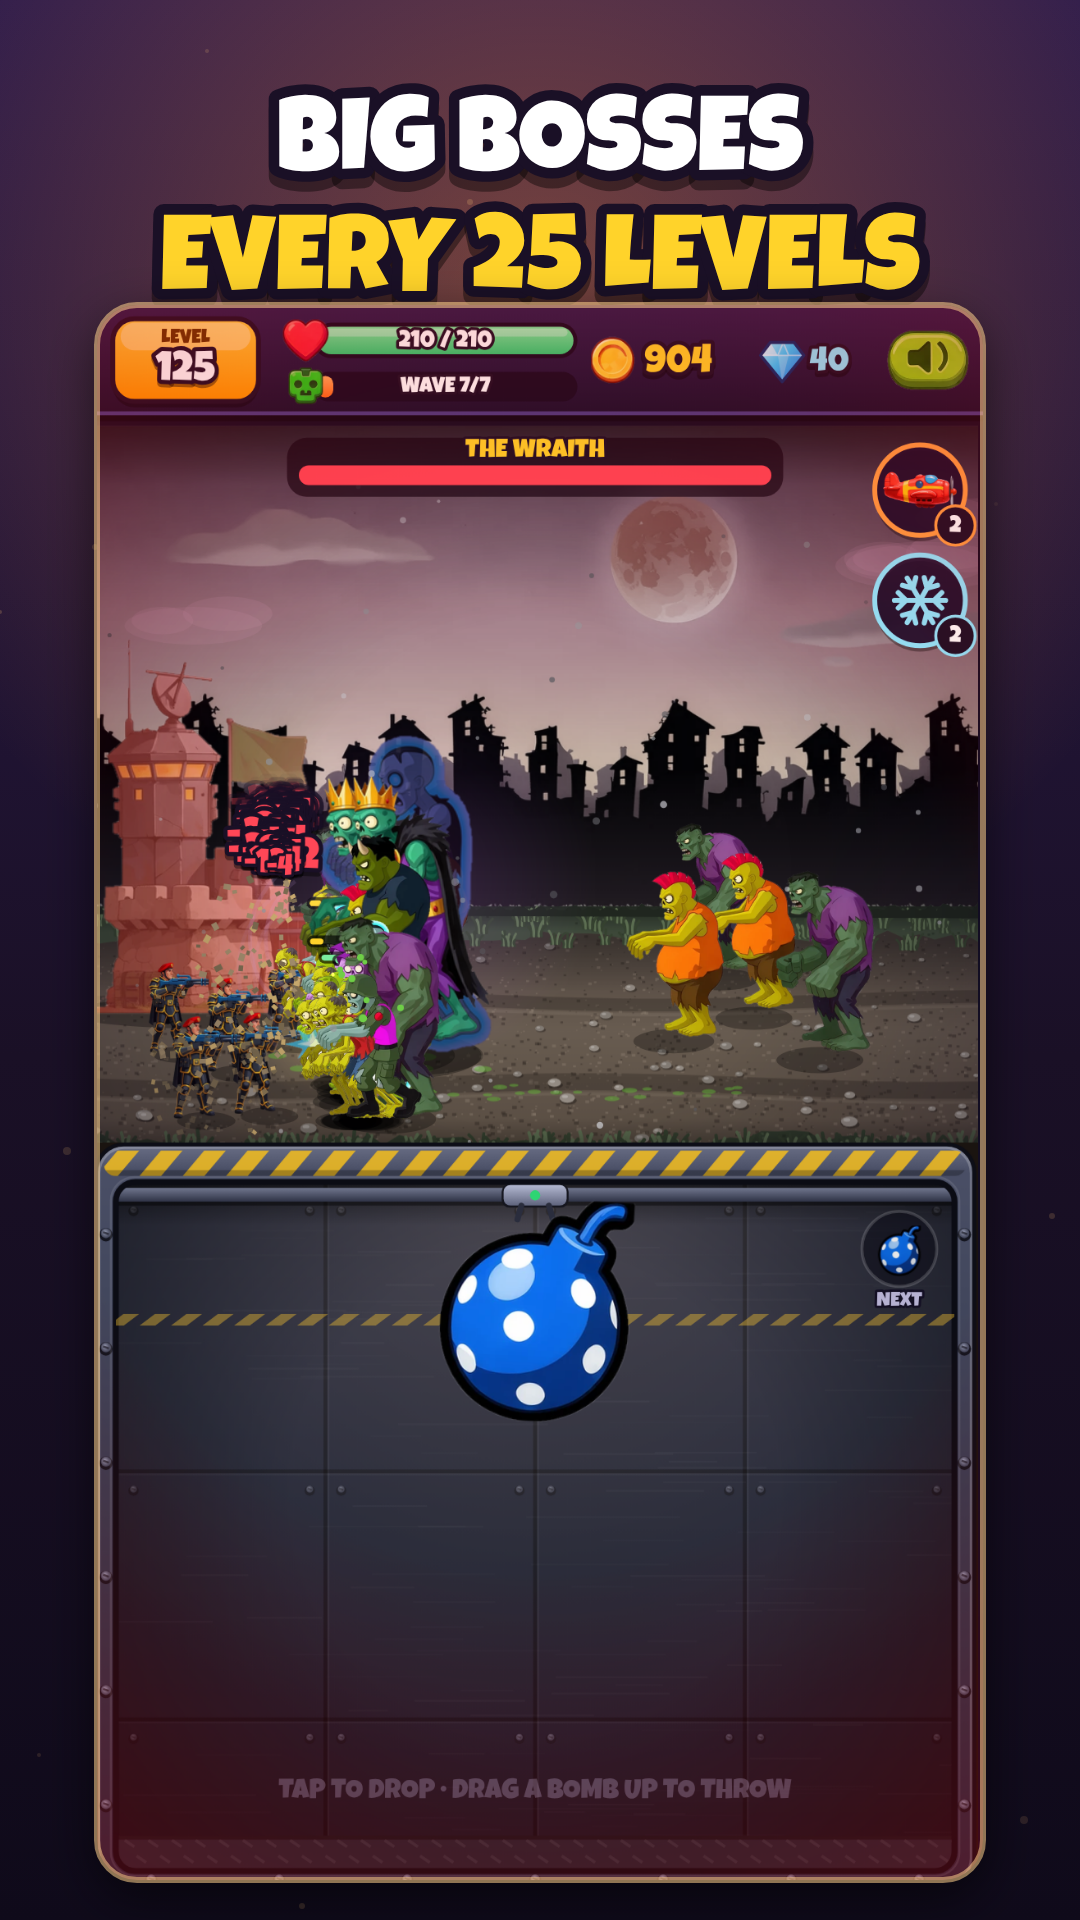
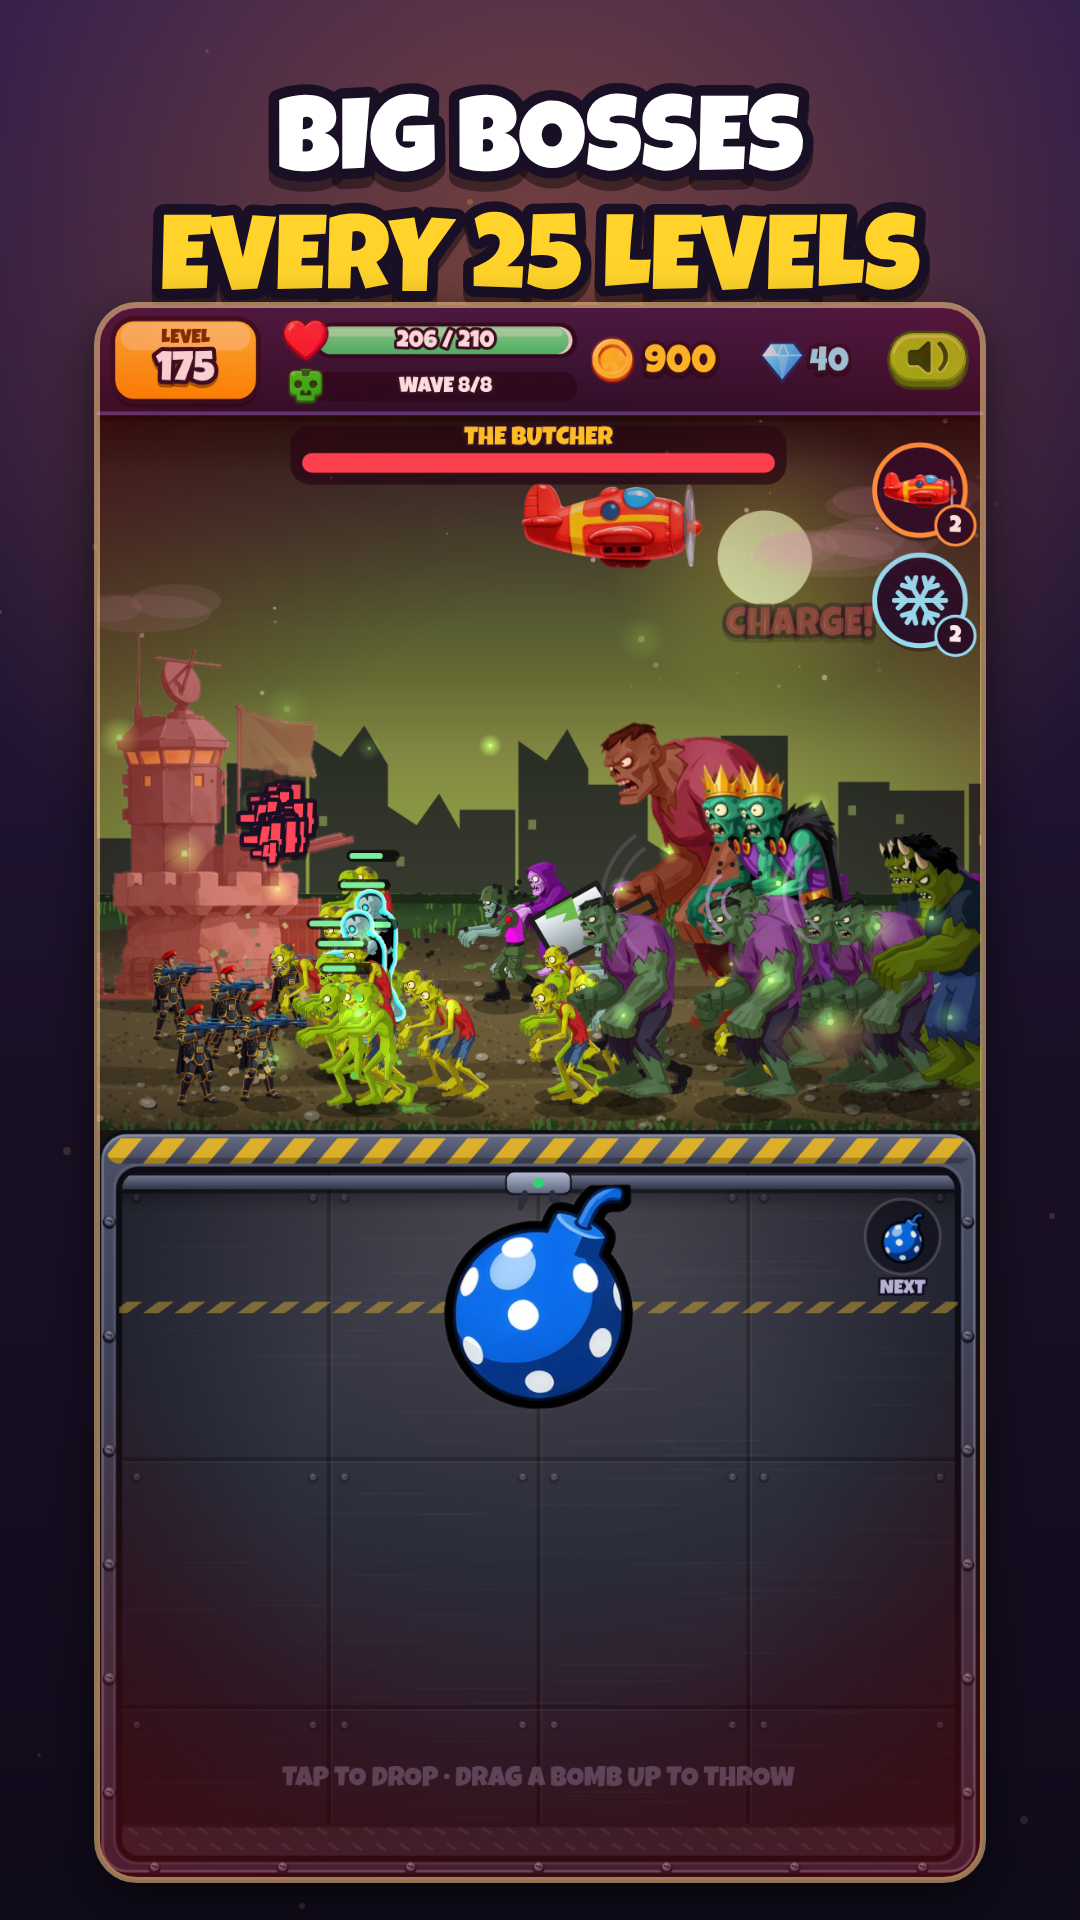
Zombie Bomber store: the Butcher's screenshot at level 175
Level 125 is the Wraith's now (six big bosses take turns), so the "big bosses"
screenshot catches the Butcher's charge at level 175 instead.

Claude-Session: https://claude.ai/code/session_01XoM4MZG2KorDzD1aHi1N4Y

diff --git a/tools/bomber_media/store.js b/tools/bomber_media/store.js
@@ -44,9 +44,9 @@ async function captured(save, seed, fn) {
     toFile(await captured({ level: 47, coins: 6840, gems: 64, streak: 4, tut: true, bestTier: 8, up: { soldiers: 5, weapons: 6, base: 8, bombs: 7 }, login: { last: 'x', n: 4 }, boost: { air: 2, freeze: 3 }, flags: FLAGS }, 5, () => {
         openShop(); while (Meta.t.panel) Meta.t.close(); Meta.t.queue.length = 0; step(50); return canvas.toDataURL('image/png');
     }), path.join(FR, 'shop.png'));
-    // a big boss: the Butcher charges at the base in the final wave of level 125 (Ashfall), the Kings behind it
-    toFile(await captured({ level: 125, coins: 900, gems: 40, streak: 3, tut: true, bestTier: 10, up: { soldiers: 8, weapons: 12, base: 20, bombs: 16 }, login: { last: 'x', n: 4 }, boost: { air: 2, freeze: 2 }, flags: FLAGS }, 7, () => {
-        startLevel(125); banner = null; crateAt = 0;
+    // a big boss: the Butcher charges at the base in the final wave of level 175 (Plague Marsh), the Kings behind it
+    toFile(await captured({ level: 175, coins: 900, gems: 40, streak: 3, tut: true, bestTier: 10, up: { soldiers: 8, weapons: 12, base: 20, bombs: 16 }, login: { last: 'x', n: 4 }, boost: { air: 2, freeze: 2 }, flags: FLAGS }, 7, () => {
+        startLevel(175); banner = null; crateAt = 0;
         waveIdx = waves.length - 2; waveState = 'gap'; waveGapT = 0.1;
         step(60 * 2);
         for (let i = 0; i < 60 * 10 && !(boss && boss.type.mech && boss.x < W - 120 && boss.charging > 0.5); i++) step(1);
